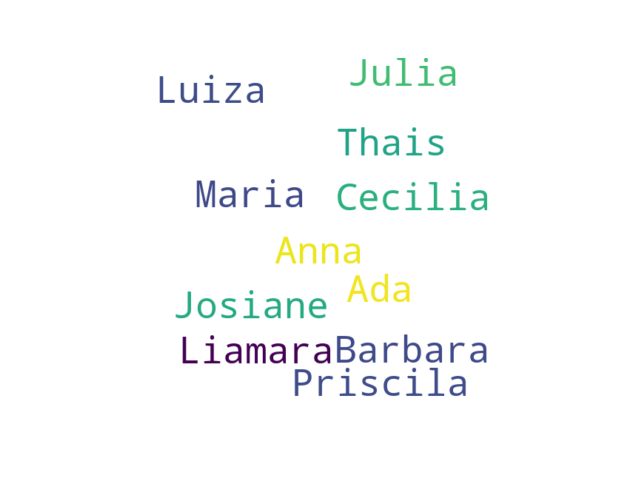
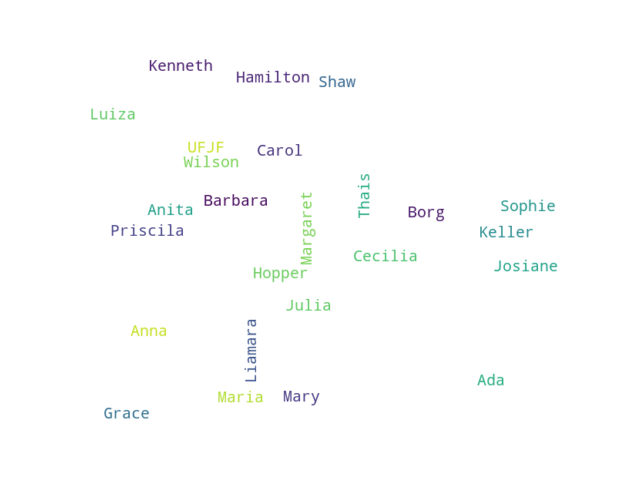
frustrating

diff --git a/main.py b/main.py
@@ -6,13 +6,36 @@ import pandas as pd
 from os import path
 from PIL import Image
 from wordcloud import WordCloud, STOPWORDS, ImageColorGenerator
+import cv2
 
 import matplotlib.pyplot as plt
 
-text = 'Maria Luiza Anna Julia Barbara Liamara Priscila Thais Cecilia Josiane Ada '
+text = 'Maria Luiza Anna Julia Barbara Liamara Priscila Thais Cecilia Josiane Ada UFJF Grace Hopper Sophie Wilson Mary Kenneth Keller Carol Shaw Anita Borg Margaret Hamilton'
 
-md_mask = np.array(Image.open("img/logo_bw.png"))
-#print(md_mask)
+#md_mask = np.array(Image.open("img/logo_bw.png"))
+img = cv2.imread('img/logo.png')
+img = cv2.cvtColor(img,cv2.COLOR_BGR2RGB)
+gray = cv2.cvtColor(img.copy(),cv2.COLOR_BGR2GRAY)
+ret, thresh = cv2.threshold(gray, 200, 255, 0)
+copy_img = img.copy()
+contours, hierarchy = cv2.findContours(thresh, cv2.RETR_TREE, cv2.CHAIN_APPROX_SIMPLE)
+cv2.drawContours(copy_img,contours,-1,(0,0,255),2)
+plt.imshow(copy_img)
+plt.xticks([])
+plt.yticks([])
+plt.savefig("teste.png")
+#titles = ['original','contours']
+#imgs = [img, copy_img]
+#for i in range (2):
+#    plt.subplot(1,2,i+1)
+#    plt.xticks([])
+#    plt.yticks([])
+#    plt.title(titles[i])
+#    plt.imshow(imgs[i])
+#plt.savefig("teste.png")
+
+md_mask = np.array(Image.open("teste.png"))
+# print(md_mask)
 
 def transform_format(val):
     if val == 0:
@@ -23,14 +46,14 @@ def transform_format(val):
 # Transform your mask into a new one that will work with the function:
 transformed_mask = np.ndarray((md_mask.shape[0],md_mask.shape[1]), np.int32)
 #print(transformed_mask)
-for i in range(len(md_mask)):
-    transformed_mask[i] = list(map(transform_format, transformed_mask[i]))
+#for i in range(len(md_mask)):
+ #   transformed_mask[i] = list(map(transform_format, md_mask[i]))
 
 #print(transformed_mask)
 
 # Create and generate a word cloud image:
 wordcloud = WordCloud(mask=transformed_mask,contour_width=3,                    
-                      contour_color='firebrick',background_color="white",max_font_size=50, max_words=1000).generate(text)
+                      contour_color='black',background_color="white",max_font_size=20, max_words=1000).generate(text)
 
 # Display the generated image:
 plt.imshow(wordcloud, interpolation='bilinear')
